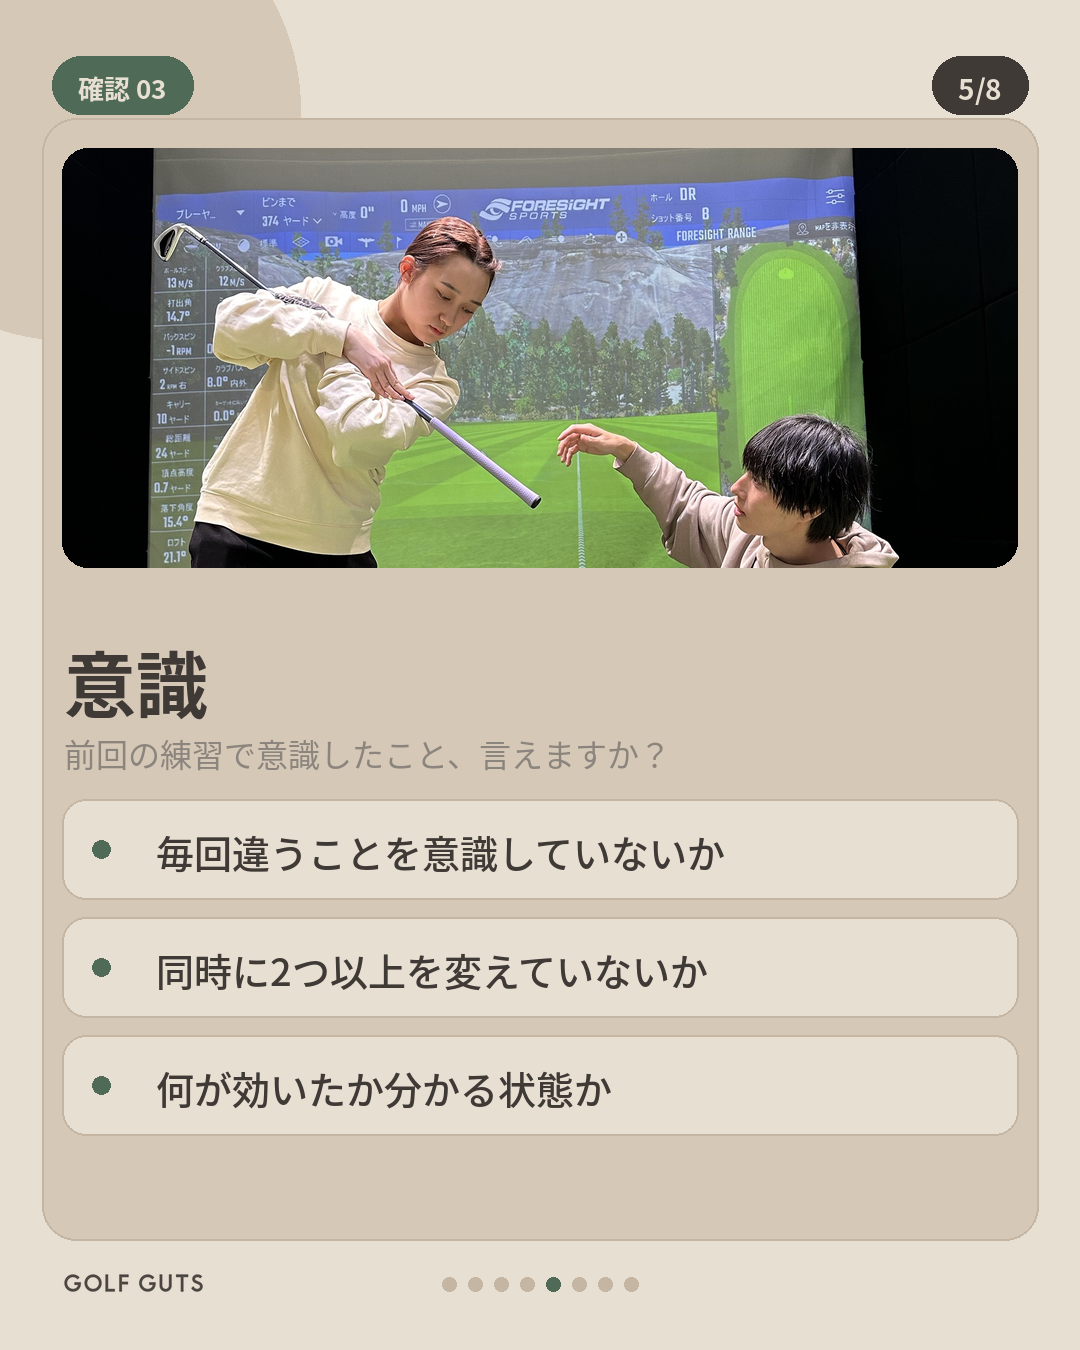
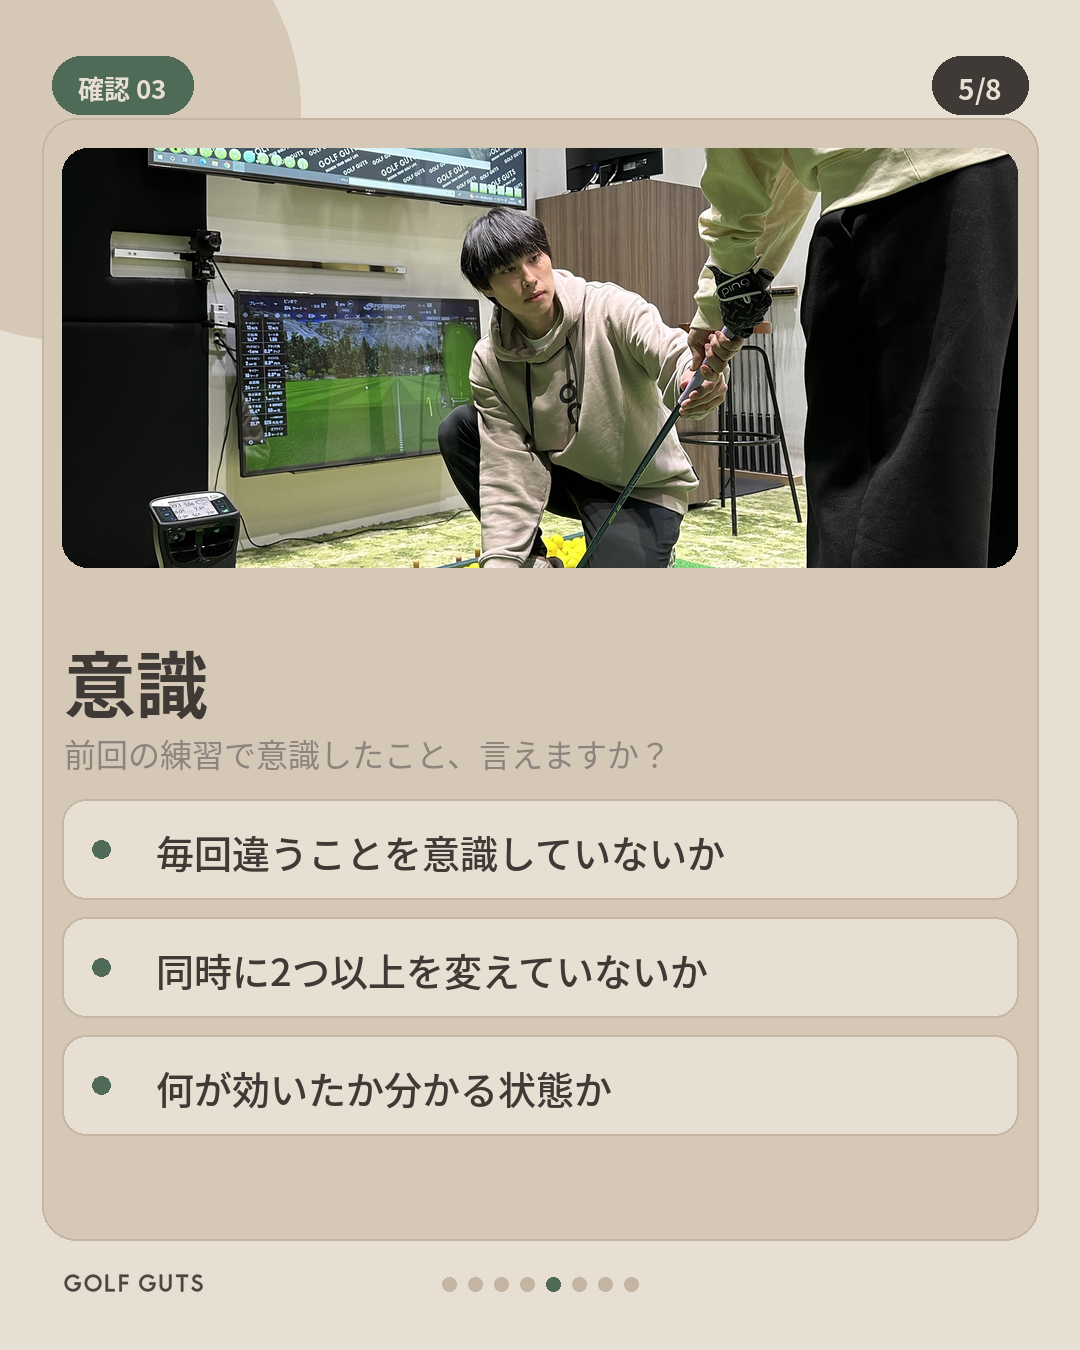
3〜4週目のカルーセル16枚を生成（配色更新版）
Claude-Session: https://claude.ai/code/session_01PYpmDyjPeMWw7oSziVxqdv

Changed region(s): [[0.0917, 0.0933, 0.9472, 0.4356]]

diff --git a/CLAUDE.md b/CLAUDE.md
@@ -279,7 +279,7 @@ LP訴求：「今のスイングを確認し、何から取り組むかを整理
 - 3週目・4週目の原稿一式：`sns_drafts_week3-4.md`
 - 堀コーチ確認依頼シート：`review_request_hori.md`（指導内容に関わる全項目を集約。ここへの回答が投稿の前提）
 - 撮影リスト：`shooting_list.md`（1回の撮影で4週分）
-- 画像投稿テンプレート：`images/make_post_images.py`＋`images/posts.json`（1080×1350、公式Instagramの既存投稿の型）。生成済み：1週目カルーセル8枚＋画像3枚、2週目カルーセル8枚（線画の図解入り）＋用語画像1枚（`images/out/`）
+- 画像投稿テンプレート：`images/make_post_images.py`＋`images/posts.json`（1080×1350、公式Instagramの既存投稿の型）。生成済み（配色更新版・ロゴ入り）：1週目カルーセル8枚＋画像2枚、2週目カルーセル8枚（線画の図解入り）＋画像2枚、3週目カルーセル8枚、4週目カルーセル8枚（`images/out/`、計36枚）。3〜4週目は堀コーチ確認前の先行版
 - 利用者名が読めるモニター写真はトリミング済み（`photos/*_safe.jpg`）
 - 投稿カレンダーの曜日の型：月リールA／火サブ／水カルーセル／木サブ／金リールB／土 柱5・6／日サブ。開始日は10/27（月）仮
 
